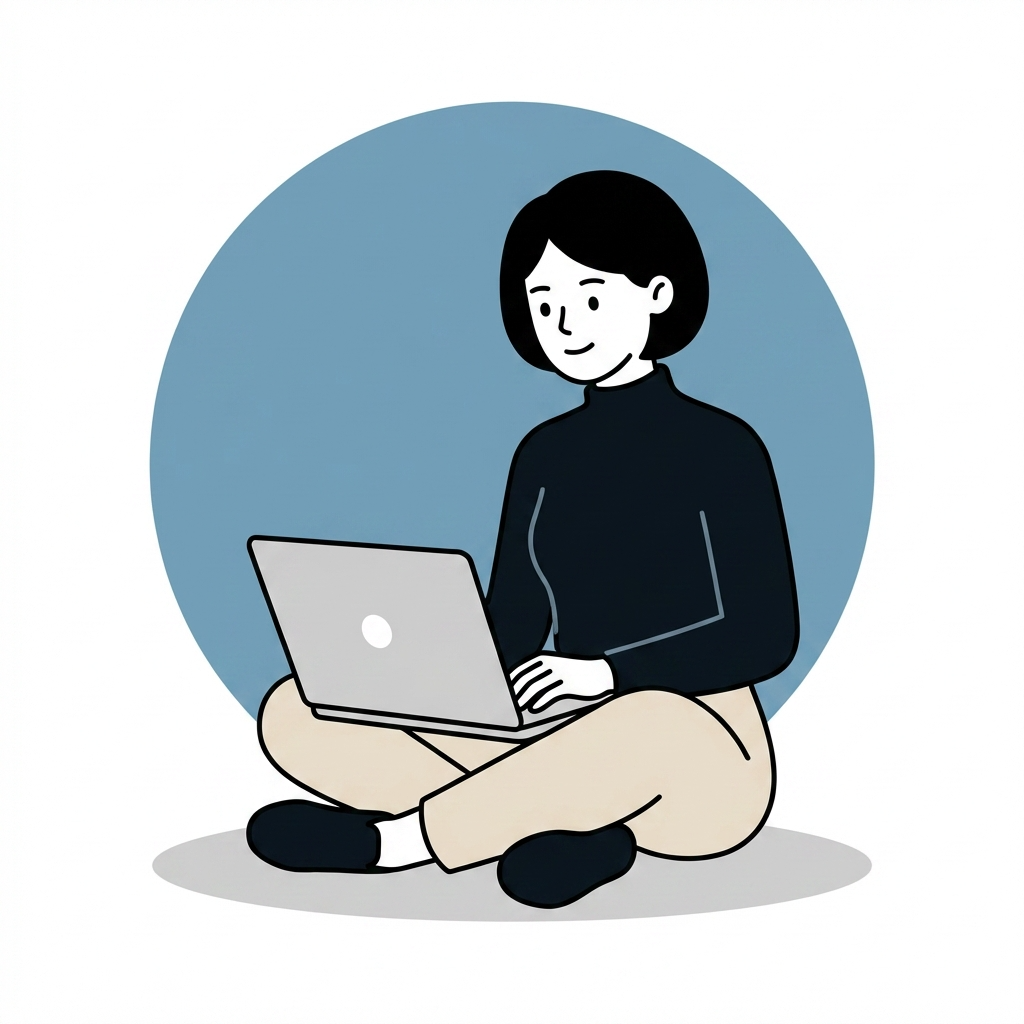
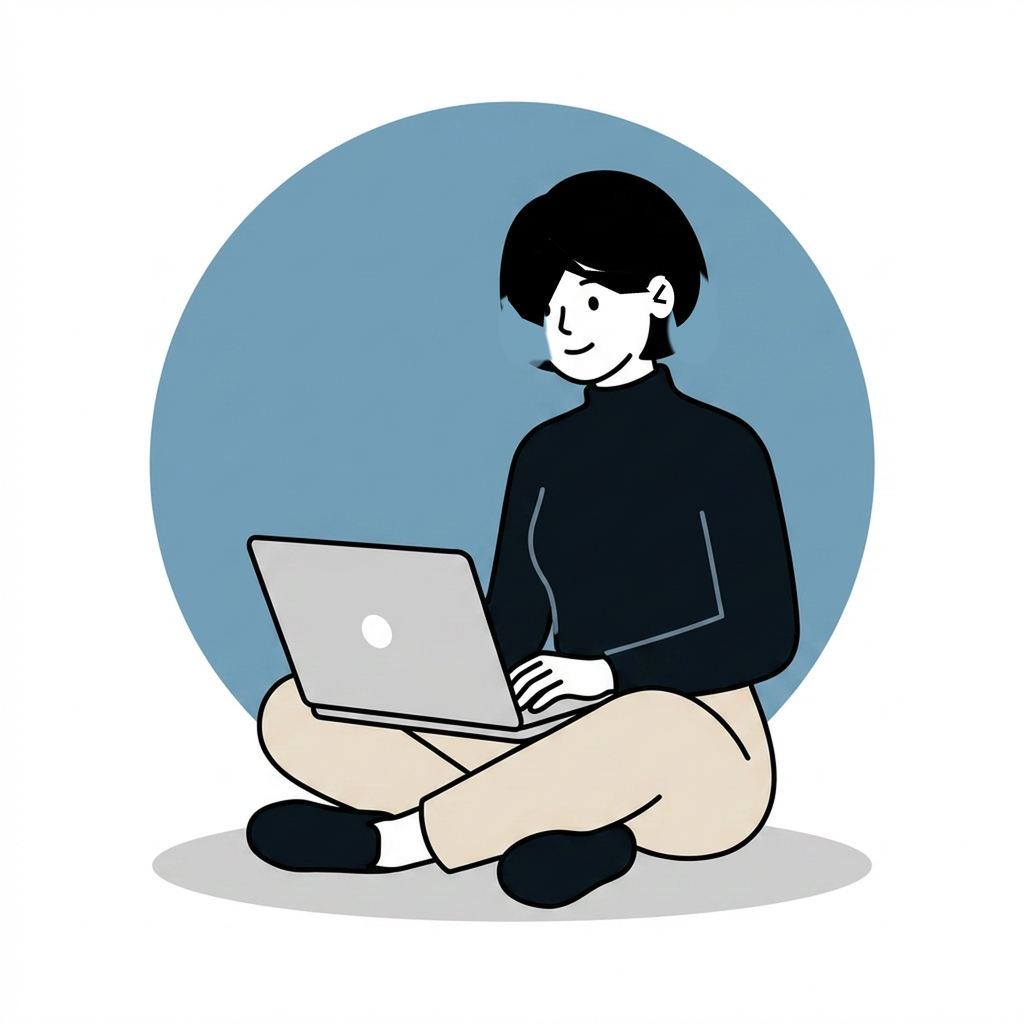
fix: shorten ACTIE laptop hairstyle

Changed region(s): [[0.4688, 0.2188, 0.7188, 0.375]]

diff --git a/src/app/characters/page.tsx b/src/app/characters/page.tsx
@@ -47,7 +47,7 @@ const moments = [
   },
   {
     title: "학술적으로 연구하며 미술치료를 준비할 때",
-    image: "/characters/acttie-reading.png",
+    image: "/characters/acttie-laptop.png",
     body: "미술치료는 임상 경험과 학술적 근거를 함께 살피며 준비합니다. ACTIE는 문헌과 사례의 흐름을 정리하고, 이를 치료실에서 만나는 마음의 속도와 미술치료 과정에 맞게 연결하는 태도를 상징합니다.",
   },
   {

diff --git a/src/components/shared/BlogIllustration.tsx b/src/components/shared/BlogIllustration.tsx
@@ -103,7 +103,7 @@ const VARIANT_MAP: Record<
   },
   caregiverRest: {
     character: "ACTIE",
-    characterSrc: "/characters/acttie-reading.png",
+    characterSrc: "/characters/acttie-laptop.png",
     accent: "#6E8B7C",
     bg: "#EFE1C6",
     label: "돌봄과 쉼",

diff --git a/src/components/shared/CharacterIllustration.tsx b/src/components/shared/CharacterIllustration.tsx
@@ -35,6 +35,7 @@ export type CharacterName =
   | "artty-thoughtful"
   | "artty-scenes"
   | "acttie-reading"
+  | "acttie-laptop"
   | "twins-together";
 
 export type CharacterAnimation = "ambient" | "float" | "fade-in" | "none";
@@ -70,6 +71,7 @@ const FILE_MAP: Record<CharacterName, string> = {
   "artty-thoughtful": "/characters/artty-thoughtful.png",
   "artty-scenes": "/characters/artty-scenes.png",
   "acttie-reading": "/characters/acttie-reading.png",
+  "acttie-laptop": "/characters/acttie-laptop.png",
   "twins-together": "/characters/twins-together.png",
 };
 

diff --git a/src/lib/constants.ts b/src/lib/constants.ts
@@ -123,7 +123,7 @@ export const SERVICES_ALL = [
     description: "Zoom 화상 + 미술 재료 키트 자택 배송. 전국 어디서나, 해외 거주 한국인도 참여 가능한 비대면 ACT 미술치료.",
     href: "/services/online",
     anchor: "전국 온라인 미술치료",
-    image: "/characters/acttie-reading.png",
+    image: "/characters/acttie-laptop.png",
     imageAlt: "온라인 미술치료 Zoom 세션",
     group: "adult",
   },

diff --git a/src/lib/hero-registry.ts b/src/lib/hero-registry.ts
@@ -50,7 +50,7 @@ export const HERO_REGISTRY: HeroSlot[] = [
     id: "pricing",
     page: "/pricing",
     imageUrl:
-      "/characters/acttie-reading.png",
+      "/characters/acttie-laptop.png",
     imageAlt: "ACT ART CENTER 비용 안내",
     category: "page",
   },